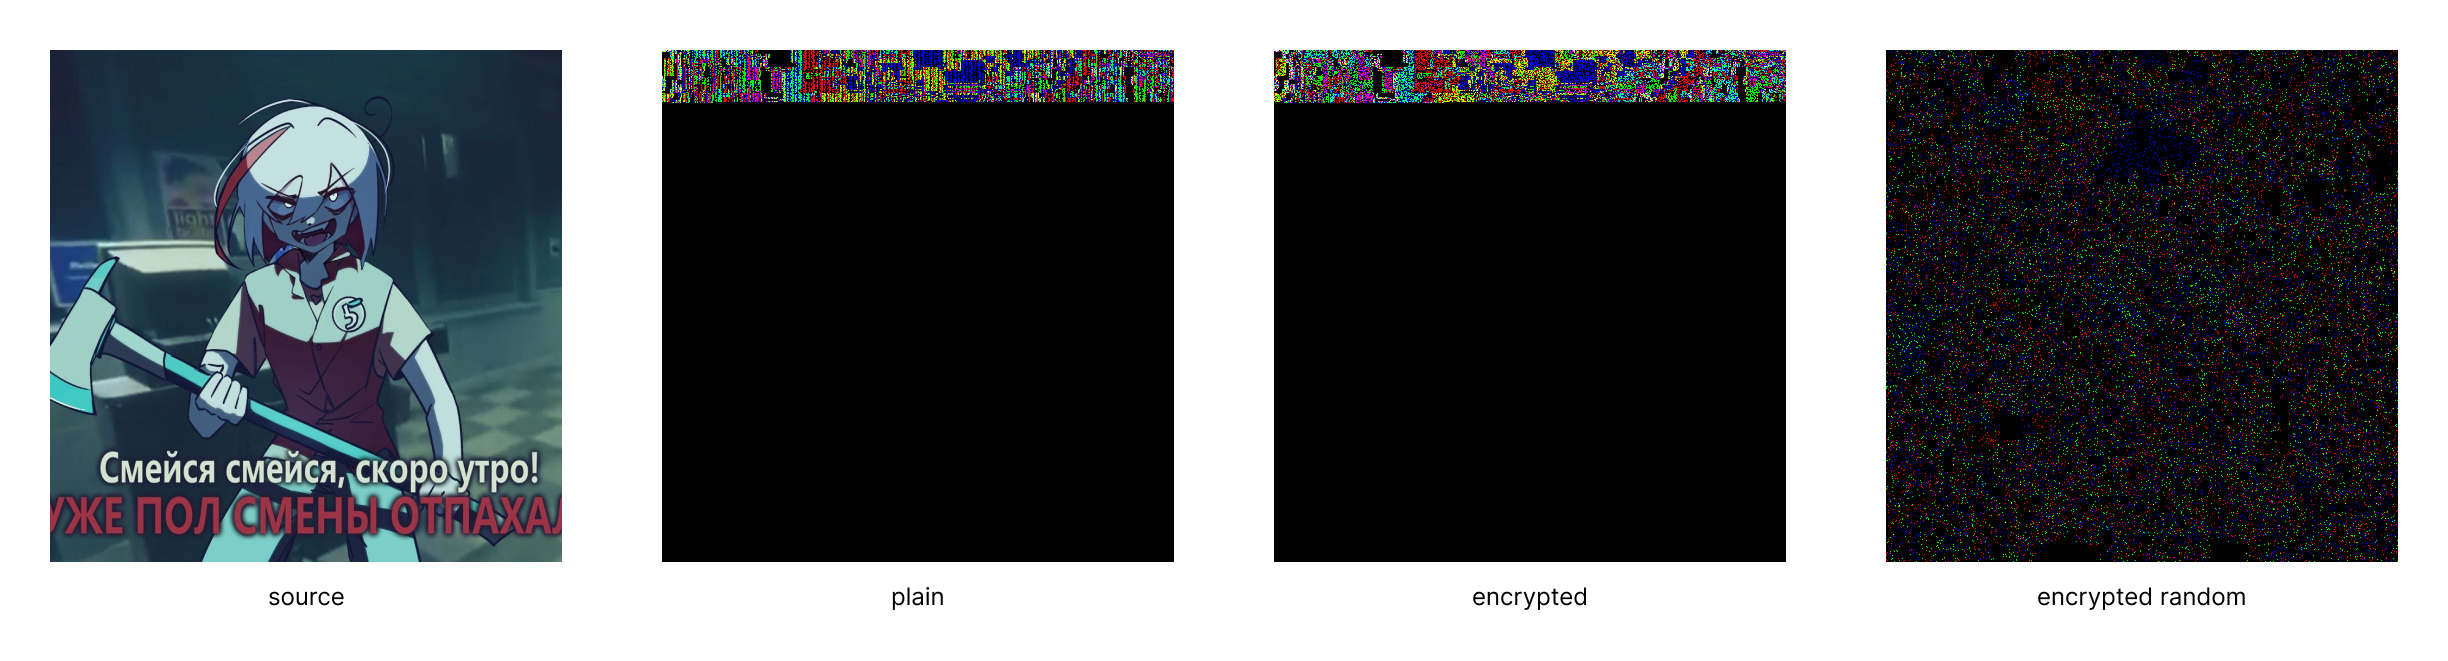
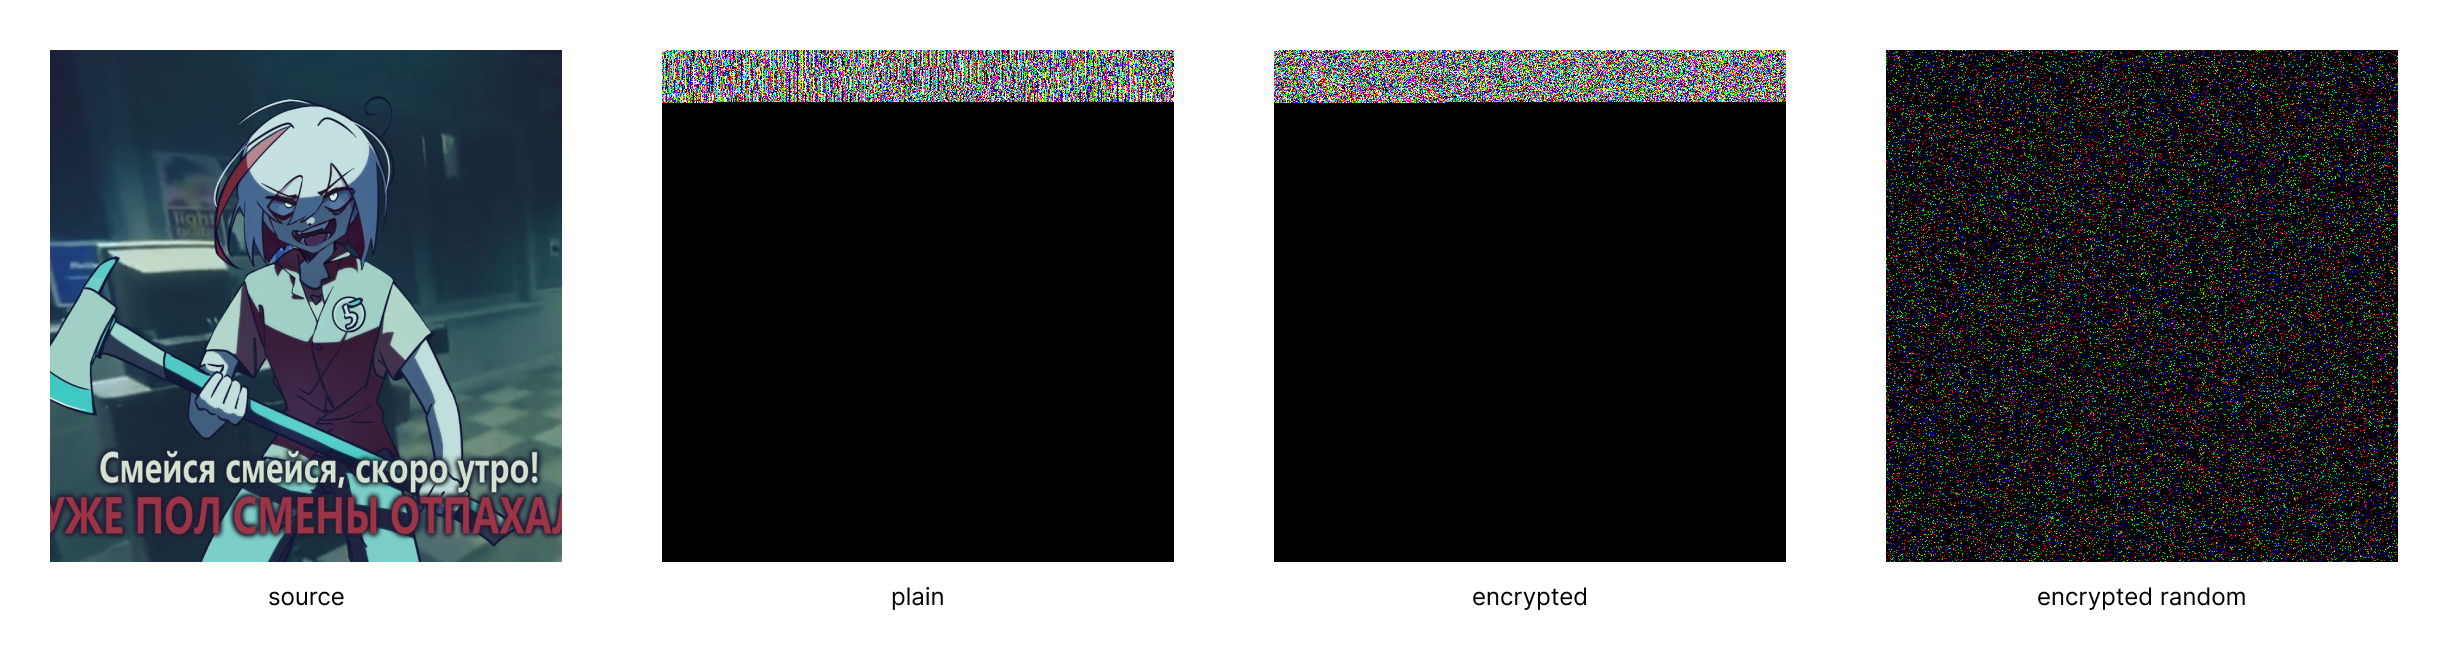
Update lab-02

Changed region(s): [[0.7761, 0.0908, 0.9935, 0.8472], [0.2484, 0.0605, 0.7451, 0.1815]]

diff --git a/lab-02/src/main/java/lecture/shouryuuko/stego/StegoTester.java b/lab-02/src/main/java/lecture/shouryuuko/stego/StegoTester.java
@@ -33,6 +33,9 @@ public class StegoTester {
 
         this.currentMethod = "plain";
         this.currentSource = source.getName();
+
+        ImageUtils.saveImage(stego, "results/stego_" + this.currentMethod.replaceAll(" +", "_") + ".png", "png");
+
         this.showMetrics(original, stego, message.getBytes(), extract);
         this.showDifferenceMap(original, originalBytes, stegoBytes);
         if (this.showHistogram) this.showHistogram(original, stego);
@@ -51,8 +54,12 @@ public class StegoTester {
         method.inject(password.getBytes(), message.getBytes(), stegoBytes);
         var extract = method.extract(password.getBytes(), stegoBytes);
 
+
         this.currentMethod = "encrypted";
         this.currentSource = source.getName();
+
+        ImageUtils.saveImage(stego, "results/stego_" + this.currentMethod.replaceAll(" +", "_") + ".png", "png");
+
         this.showMetrics(original, stego, message.getBytes(), extract);
         this.showDifferenceMap(original, originalBytes, stegoBytes);
         if (this.showHistogram) this.showHistogram(original, stego);
@@ -71,8 +78,12 @@ public class StegoTester {
         method.inject(password.getBytes(), message.getBytes(), stegoBytes);
         var extract = method.extract(password.getBytes(), stegoBytes);
 
+
         this.currentMethod = "encrypted random";
         this.currentSource = source.getName();
+
+        ImageUtils.saveImage(stego, "results/stego_" + this.currentMethod.replaceAll(" +", "_") + ".png", "png");
+
         this.showMetrics(original, stego, message.getBytes(), extract);
         this.showDifferenceMap(original, originalBytes, stegoBytes);
         if (this.showHistogram) this.showHistogram(original, stego);
@@ -92,7 +103,7 @@ public class StegoTester {
         var originalBytes = ImageUtils.getBytes(original);
         var stegoBytes = ImageUtils.getBytes(stego);
 
-        var pnsr  = Metrics.psnr(original, stego);
+        var psnr  = Metrics.psnr(original, stego);
         var ssim  = Metrics.ssim(originalBytes, stegoBytes);
 
         var xi2original = Metrics.xi2test(original);
@@ -109,7 +120,7 @@ public class StegoTester {
                 | Source: %-50s|
                 ├───────────────────────────────────────────────────────────┤
                 | PSNR          | %41.5f |
-                | SSIM          | %41.5f |
+                | SSIM          | %41.39f |
                 | ratio         | %40.5f%% |
                 | reversibility | %41b |
                 ├───────────────────────────────────────────────────────────┤
@@ -120,7 +131,7 @@ public class StegoTester {
                 └───────────────────────────────────────────────────────────┘
                 """,
                 this.currentMethod, this.currentSource,
-                pnsr, ssim, ratio,
+                psnr, ssim, ratio,
                 Arrays.compare(data, extract) == 0,
                 distOriginal[0], distOriginal[1], xi2original[0], xi2original[1],
                 distStego[0], distStego[1], xi2stego[0], xi2stego[1]

diff --git a/lab-02/src/main/java/lecture/shouryuuko/stego/utils/Metrics.java b/lab-02/src/main/java/lecture/shouryuuko/stego/utils/Metrics.java
@@ -1,11 +1,8 @@
 package lecture.shouryuuko.stego.utils;
 
 import org.apache.commons.math3.special.Gamma;
-import org.apache.commons.statistics.inference.ChiSquareTest;
 
 import java.awt.image.BufferedImage;
-import java.util.ArrayList;
-import java.util.Arrays;
 
 public class Metrics {
     public static final double RED_IMPACT_COEFF   = 0.299;
@@ -19,7 +16,7 @@ public class Metrics {
         var mse = 0.0;
         for (int i = 0; i < original.getHeight(); ++i) {
             for (int j = 0; j < original.getWidth(); ++j) {
-                mse += Math.pow(getLightmass(original.getRGB(i, j)) - getLightmass(stego.getRGB(i, j)), 2);
+                mse += Math.pow(getLightmass(original.getRGB(j, i)) - getLightmass(stego.getRGB(j, i)), 2);
             }
         }
 
@@ -106,7 +103,7 @@ public class Metrics {
 
         var result = new byte[original.length];
         for (int i = 0; i < original.length; ++i) {
-            result[i] = (byte) Math.abs((original[i] & 0xFF - stego[i] & 0xFF) * 255);
+            result[i] = (byte) Math.abs(((original[i] & 0xFF) - (stego[i] & 0xFF)) * 255);
         }
 
         return result;
@@ -139,7 +136,7 @@ public class Metrics {
 
         var pvalue = Gamma.regularizedGammaQ(
                 freedom / 2.0,
-                xi2square
+                xi2square / 2.0
         );
 
         return new double[] { xi2square, pvalue };
